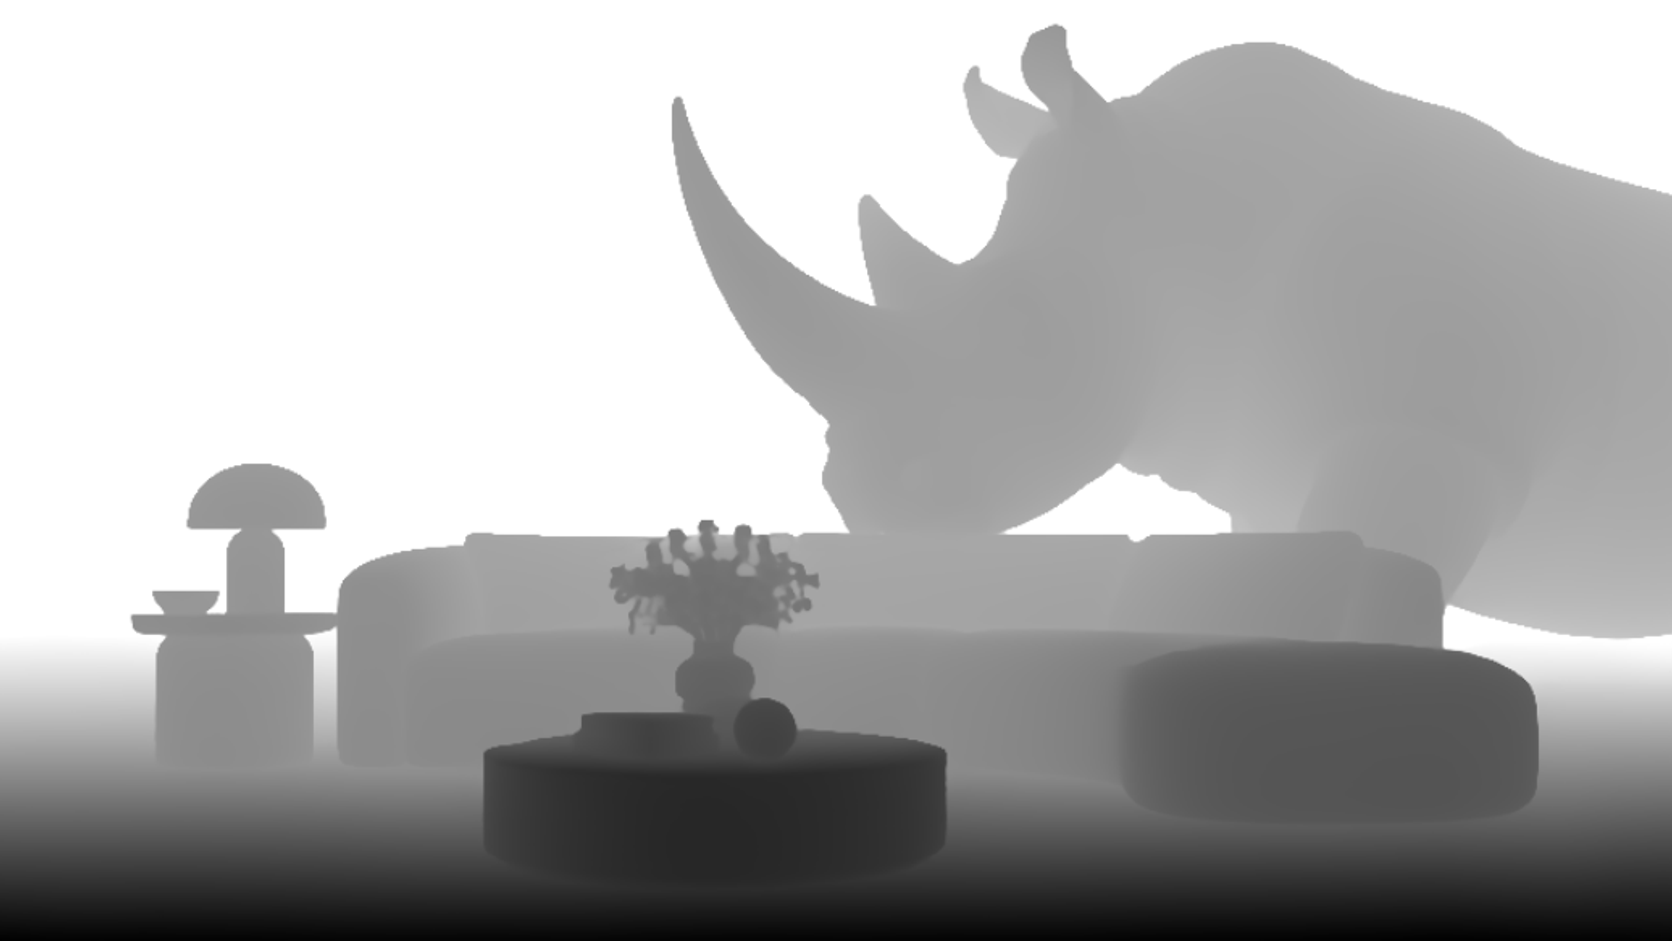
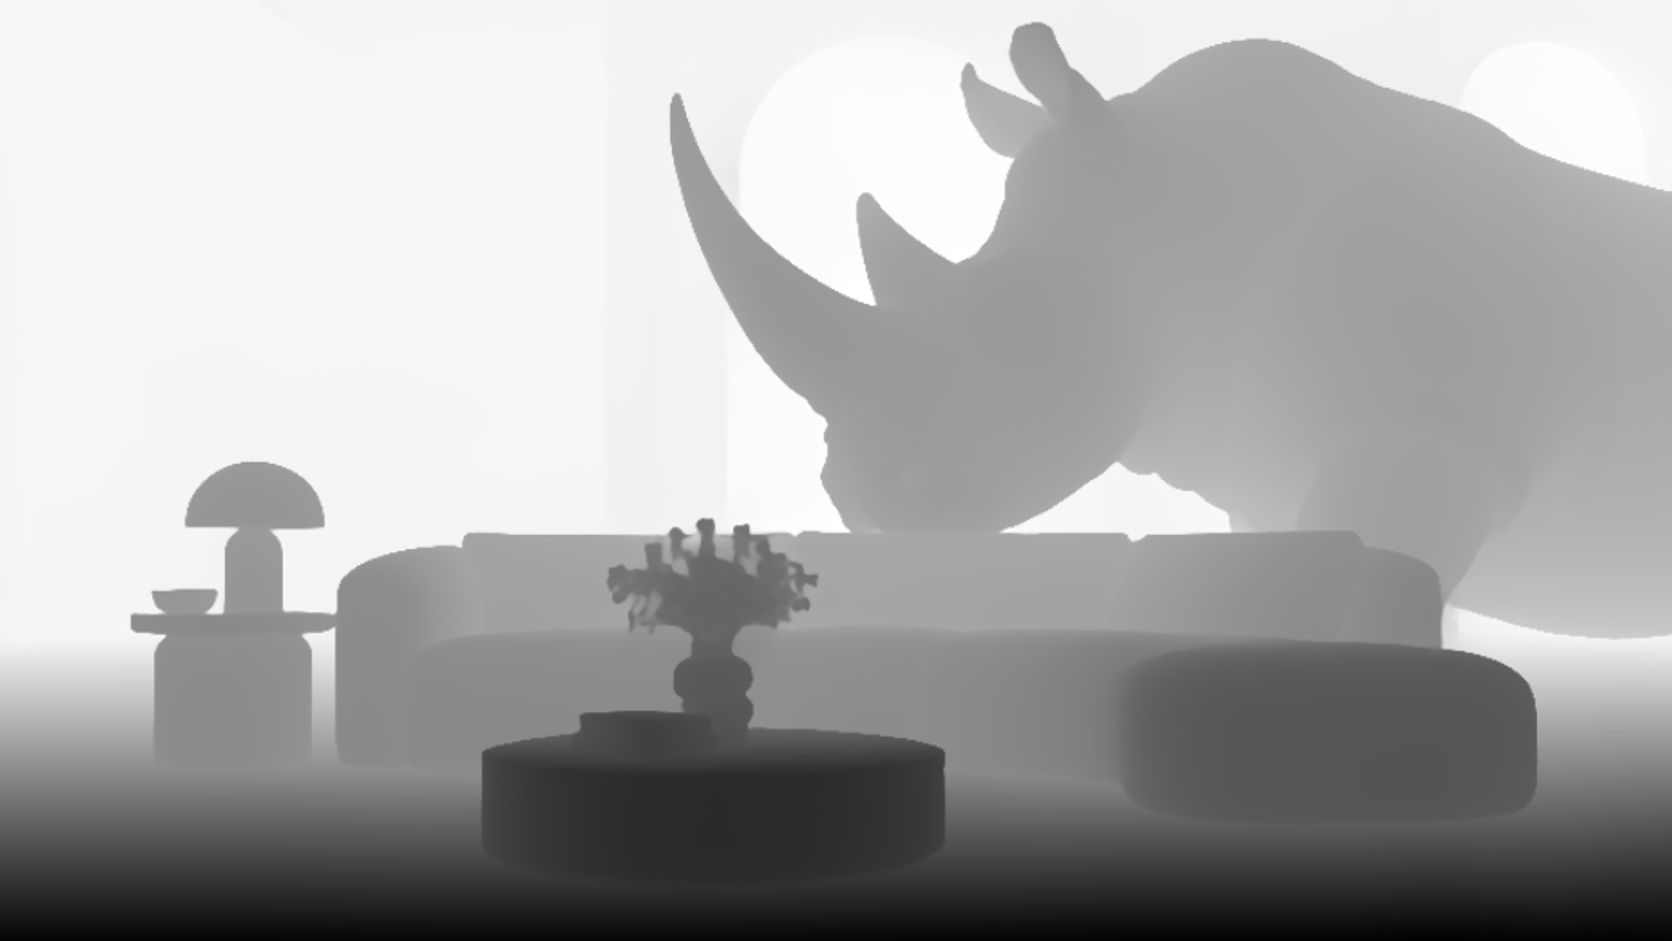
Hero: interior version of the first world, dark text and controls on it; Rouge Script; ribbon figures back
- New opening image (grey plaster interior with arches) and its depth map
- While the first world shows, hero lines, header, logo and controls switch to ink
- Script type now Rouge Script from Google Fonts (Parisienne removed)
- Restore the four figures on the process ribbon (light stays fixed)

diff --git a/src/three/scenes/AtelierObjects.tsx b/src/three/scenes/AtelierObjects.tsx
@@ -21,7 +21,7 @@ function StudioEnvironment() {
   return <primitive object={environment.texture} attach="environment"/>
 }
 
-// The process sculpture: a ribbon spiral.
+// The process sculpture: a ribbon spiral with four figures.
 // The ribbon carries aT (0 at its top, .86 at its foot) so one shader can reveal it on scroll and
 // sweep a new finish down it with a glowing seam.
 export type Finish = 'lacquer' | 'metal' | 'clay' | 'brass' | 'velvet'
@@ -33,6 +33,7 @@ const finishes: Record<Finish, FinishLook> = {
   brass: { color: '#c99a4a', metalness: 1, roughness: .3, clearcoat: .4, sheen: 0, sheenColor: '#000000', glow: '#ffd27a' },
   velvet: { color: '#2337a8', metalness: 0, roughness: .9, clearcoat: 0, sheen: 1, sheenColor: '#7f9bff', glow: '#8aa2ff' },
 }
+const FIGURES = [.10, .32, .57, .81]
 
 function ribbonGeometry() {
   const positions: number[] = [], indices: number[] = [], along: number[] = []
@@ -110,8 +111,8 @@ function applyFinish(material: MeshPhysicalMaterial, look: FinishLook) {
   material.clearcoat = look.clearcoat; material.sheen = look.sheen; material.sheenColor.set(look.sheenColor)
 }
 
-function Ribbon({ progress, reduced, finish, entered }: { progress: MutableRefObject<number>; active: number; reduced: boolean; finish: Finish; entered: boolean }) {
-  const group = useRef<Group>(null), entrance = useRef(reduced ? 1 : 0)
+function Ribbon({ progress, active, reduced, finish, entered }: { progress: MutableRefObject<number>; active: number; reduced: boolean; finish: Finish; entered: boolean }) {
+  const group = useRef<Group>(null), entrance = useRef(reduced ? 1 : 0), people = useRef<(Group | null)[]>([])
   const shared = useMemo(() => ({ uReveal: { value: reduced ? 1 : 0 }, uSweep: { value: 0 }, uGlow: { value: new Color(finishes[finish].glow) } }), []) // eslint-disable-line react-hooks/exhaustive-deps
   const [outgoing, incoming] = useMemo(() => [sweepMaterial(0, shared), sweepMaterial(1, shared)], [shared])
   const geometry = useMemo(() => ribbonGeometry(), [])
@@ -139,6 +140,8 @@ function Ribbon({ progress, reduced, finish, entered }: { progress: MutableRefOb
       shared.uSweep.value = Math.min(1, shared.uSweep.value + dt / 1.3)
       if (shared.uSweep.value >= 1) { applyFinish(outgoing, finishes[shown.current]); shared.uSweep.value = 0 }
     }
+    // Each figure steps out once the fragment beneath it has landed.
+    people.current.forEach((figure, i) => { if (figure) figure.scale.setScalar(.12 * MathUtils.smoothstep((shared.uReveal.value * 1.33 - FIGURES[i] * 1.05) / .28, .85, 1)) })
     if (!group.current) return
     group.current.position.y = (1 - e) * -1.4
     group.current.scale.setScalar(.82 + .18 * e)
@@ -153,6 +156,14 @@ function Ribbon({ progress, reduced, finish, entered }: { progress: MutableRefOb
     <group ref={group} rotation={[0, -.25, 0]}>
       <mesh geometry={geometry} material={outgoing} />
       <mesh geometry={geometry} material={incoming} />
+      {FIGURES.map((t,i) => {
+        const a=t*Math.PI*6.6
+        return <group key={t} ref={el => { people.current[i] = el }} position={[Math.cos(a)*1.2, 3.1-t*6.2+.36, Math.sin(a)*1.2]} scale={.12}>
+          <mesh position={[0,.8,0]}><sphereGeometry args={[.19,12,8]} /><meshStandardMaterial color={active===i?'#f5e7cf':'#152232'} /></mesh>
+          <mesh position={[0,.35,0]}><capsuleGeometry args={[.15,.45,4,8]} /><meshStandardMaterial color={active===i?'#f5e7cf':'#152232'} /></mesh>
+          {[-1,1].map(side=><mesh key={side} position={[side*.12,-.15,0]} rotation={[0,0,side*.1]}><capsuleGeometry args={[.06,.42,4,6]} /><meshStandardMaterial color="#152232" /></mesh>)}
+        </group>
+      })}
     </group>
   </>
 }

diff --git a/src/styles/cinematicHero.css b/src/styles/cinematicHero.css
@@ -132,6 +132,26 @@
 .atelier-shade { opacity: calc(1 - var(--hero-outro, 0)); }
 .atelier-titles, .atelier-bottom, .atelier-meters { opacity: calc(1 - var(--hero-outro, 0)); }
 
-/* Script lines are set in Parisienne: upright (the face is already cursive), no synthetic slant or bold, natural spacing so the letters join. */
-.atelier-line, .atelier-contact > a { font-family: 'Parisienne', 'Bodoni Moda', cursive; font-style: normal; font-weight: 400; font-synthesis: none; letter-spacing: 0; }
+/* Script lines are set in Rouge Script: upright (the face is already cursive), no synthetic slant or bold, natural spacing so the letters join. */
+.atelier-line, .atelier-contact > a { font-family: 'Rouge Script', 'Bodoni Moda', cursive; font-style: normal; font-weight: 400; font-synthesis: none; letter-spacing: 0; }
 .atelier-line { font-size: clamp(52px, 6vw, 112px); }
+
+/* The first world is a pale interior, so while it shows the hero's text, header and controls turn to ink. */
+.atelier-header, .atelier-line, .atelier-bottom, .atelier-logo img, .atelier-desktop-nav, .atelier-nav-pill, .atelier-factory, .atelier-factory i, .atelier-meter-fill, .atelier-meters button::before { transition: color .6s ease, background-color .6s ease, border-color .6s ease, filter .6s ease, transform .7s cubic-bezier(.65,0,.15,1); }
+.atelier-stage.is-light .atelier-header,
+.atelier-stage.is-light .atelier-line,
+.atelier-stage.is-light .atelier-bottom { color: var(--atelier-ink); }
+.atelier-stage.is-light .atelier-line { text-shadow: 0 1px 18px #ffffff66; }
+/* The logo file is white: tint it to the ink navy. */
+.atelier-stage.is-light .atelier-logo img { filter: brightness(0) invert(13%) sepia(38%) saturate(1400%) hue-rotate(178deg) brightness(.92); }
+.atelier-stage.is-light .atelier-desktop-nav { background: #ffffff59; border-color: #17284026; box-shadow: inset 0 1px 0 #ffffff80, 0 12px 40px #1728401a; }
+.atelier-stage.is-light .atelier-nav-pill { background: var(--atelier-ink); }
+.atelier-stage.is-light .atelier-desktop-nav button[aria-current] { color: var(--atelier-ivory); }
+.atelier-stage.is-light .atelier-desktop-nav button[aria-current] small { color: #ff8a7e; }
+.atelier-stage.is-light .atelier-factory { background: #ffffff59; border-color: #17284033; }
+.atelier-stage.is-light .atelier-factory i { background: var(--atelier-ink); color: var(--atelier-ivory); }
+.atelier-stage.is-light .atelier-factory:hover { background: var(--atelier-ink); border-color: var(--atelier-ink); color: var(--atelier-ivory); }
+.atelier-stage.is-light .atelier-factory:hover i { background: #bf291b; color: #fff; }
+.atelier-stage.is-light .atelier-meters button::before { background: #1728402e; }
+.atelier-stage.is-light .atelier-meter-fill { background: var(--atelier-ink); }
+.atelier-stage.is-light .atelier-menu-toggle { border-color: #17284033; background: #ffffff59; color: var(--atelier-ink); }

diff --git a/src/config/cinematicHero.ts b/src/config/cinematicHero.ts
@@ -16,7 +16,7 @@ export interface CinematicWorld {
 }
 
 export const cinematicWorlds: CinematicWorld[] = [
-  { id: 'beyond-ordinary', name: 'Beyond the ordinary', navigation: 'Home', image: '/images/redesign/rhino.jpg', depth: '/images/redesign/rhino-depth.png', aspect: 1672 / 941, alt: 'A curved powder-blue sofa, blue-grey travertine tables and a stone lamp on a salt flat, with a monumental ivory rhinoceros behind, under a deep blue sky.', lines: ['for interiors that', 'don’t do ordinary.'], exit: [.607, .332], entry: [.5, .5], portraitFocus: .45 },
+  { id: 'beyond-ordinary', name: 'Beyond the ordinary', navigation: 'Home', image: '/images/redesign/rhino.jpg', depth: '/images/redesign/rhino-depth.png', aspect: 1672 / 941, alt: 'A curved powder-blue sofa, blue-grey travertine tables and a stone lamp in a tall grey plaster interior with arched openings, with a monumental ivory rhinoceros sculpture behind.', lines: ['for interiors that', 'don’t do ordinary.'], exit: [.607, .332], entry: [.5, .5], portraitFocus: .45 },
   { id: 'perspective', name: 'A different perspective', navigation: 'Perspective', image: '/images/redesign/eye.jpg', depth: '/images/redesign/eye-depth.png', aspect: 1672 / 1077, alt: 'A monumental eye carved into an ivory interior, with sculptural furniture and vivid red figures.', lines: ['bold when needed', 'where space becomes narrative.'], exit: [.508, .398], entry: [.508, .398], portraitFocus: .50 },
   { id: 'imagination', name: 'Imagination takes form', navigation: 'Imagination', image: '/images/redesign/bedroom.jpg', depth: '/images/redesign/bedroom-depth.png', aspect: 1672 / 1077, alt: 'Cobalt blue furniture on white pebbles, with a blue-clad woman holding a red heart.', lines: ['where imagination', 'finds form'], exit: [.923, .44], entry: [.354, .49], portraitFocus: .43 },
   { id: 'extraordinary-living', name: 'Extraordinary living', navigation: 'Living', image: '/images/redesign/pool.jpg', depth: '/images/redesign/pool-depth.png', aspect: 1672 / 1077, alt: 'Blue sculptural spheres and an ivory bathtub beside a reflecting pool and white arches.', lines: ['Ordinary spaces.', 'Extraordinary living.'], exit: [.50, .5], entry: [.87, .58], portraitFocus: .58 },

diff --git a/src/styles/atelierSections.css b/src/styles/atelierSections.css
@@ -231,8 +231,8 @@
 .story-navigation > [data-on-navy] button { border-color:#f5f0e766; }
 .story-navigation > [data-on-navy] button:hover { background:#f5f0e7; color:#142942; }
 
-/* Script accents are set in Parisienne: upright (the face is already cursive), no synthetic slant or bold, natural spacing so the letters join.
+/* Script accents are set in Rouge Script: upright (the face is already cursive), no synthetic slant or bold, natural spacing so the letters join.
    It runs smaller than Bodoni at the same size, so emphasised words inside headings are enlarged to match. */
 .process-note, .drawing-status, .architecture-foot > span, .outro-passage-hint span,
-.atelier-editorial h2 em, .atelier-editorial h3 em, .focus-statement em, .outro-title em { font-family:'Parisienne','Bodoni Moda',cursive; font-style:normal; font-weight:400; font-synthesis:none; letter-spacing:0; }
+.atelier-editorial h2 em, .atelier-editorial h3 em, .focus-statement em, .outro-title em { font-family:'Rouge Script','Bodoni Moda',cursive; font-style:normal; font-weight:400; font-synthesis:none; letter-spacing:0; }
 .atelier-editorial h2 em, .atelier-editorial h3 em, .focus-statement em, .outro-title em { font-size:1.12em; }

diff --git a/src/components/PageLoader.tsx b/src/components/PageLoader.tsx
@@ -138,7 +138,7 @@ export function PageLoader({ onComplete }: { onComplete: () => void }) {
   useEffect(() => {
     let alive = true, completed = 0, displayed = 1, stalledSince = 0
     const tasks = [...images, '/theos-logo.avif'].map(loadImage)
-    tasks.push(document.fonts.load('400 16px "Bodoni Moda"').then(() => {}), document.fonts.load('italic 400 16px "Bodoni Moda"').then(() => {}), document.fonts.load('400 16px Manrope').then(() => {}), document.fonts.load('400 16px Parisienne').then(() => {}))
+    tasks.push(document.fonts.load('400 16px "Bodoni Moda"').then(() => {}), document.fonts.load('italic 400 16px "Bodoni Moda"').then(() => {}), document.fonts.load('400 16px Manrope').then(() => {}), document.fonts.load('400 16px "Rouge Script"').then(() => {}))
     tasks.push(import('@/three/scenes/CinematicHero').then(() => {}), import('@/three/scenes/AtelierObjects').then(() => {}), import('@/three/scenes/LiquidDrops').then(() => {}))
     tasks.forEach(task => task.catch(() => {}).finally(() => { completed++ }))
     const total = tasks.length + 4

diff --git a/src/pages/Home.tsx b/src/pages/Home.tsx
@@ -52,7 +52,7 @@ export function Home() {
   return <main className="atelier-home">
     <a href="#atelier-contact" className="atelier-skip">Skip the visual journey</a>
     <section ref={root} className="atelier-journey" aria-label="Theos — beyond the ordinary" data-world={world.id}>
-      <div className={`atelier-stage${ready && !failed ? ' is-ready' : ''}${active === 1 ? ' is-ivory' : ''}`}>
+      <div className={`atelier-stage${ready && !failed ? ' is-ready' : ''}${active === 1 ? ' is-ivory' : ''}${active === 0 ? ' is-light' : ''}`}>
         <div className="atelier-poster" aria-hidden="true">
           {cinematicWorlds.map((scene, i) => <img key={scene.id} src={scene.image} alt="" fetchPriority={i === 0 ? 'high' : 'auto'} className={active === i ? 'is-current' : ''} style={{ objectPosition: `${scene.portraitFocus * 100}% center` }} />)}
         </div>

diff --git a/index.html b/index.html
@@ -7,6 +7,9 @@
     <meta name="description" content="Theos interiors and furniture. A world of considered spaces, bold imagination, and extraordinary living." />
     <link rel="preload" as="image" href="/images/redesign/rhino.jpg" fetchpriority="high" />
     <title>Theos — Interior Design Studio</title>
+    <link rel="preconnect" href="https://fonts.googleapis.com">
+    <link rel="preconnect" href="https://fonts.gstatic.com" crossorigin>
+    <link href="https://fonts.googleapis.com/css2?family=Raleway:ital,wght@0,100..900;1,100..900&family=Rouge+Script&display=swap" rel="stylesheet">
   </head>
   <body>
     <div id="root"></div>

diff --git a/src/index.css b/src/index.css
@@ -2,7 +2,6 @@
 
 @font-face { font-family: 'Bodoni Moda'; src: url('/fonts/bodoni-moda.ttf') format('truetype'); font-style: normal; font-weight: 400 900; font-display: swap; }
 @font-face { font-family: 'Bodoni Moda'; src: url('/fonts/bodoni-moda-italic.ttf') format('truetype'); font-style: italic; font-weight: 400 900; font-display: swap; }
-@font-face { font-family: 'Parisienne'; src: url('/fonts/Parisienne-Regular.ttf') format('truetype'); font-style: normal; font-weight: 400; font-display: swap; }
 
 @theme {
   --font-display: "Fraunces", ui-serif, Georgia, serif;

diff --git a/CLAUDE.md b/CLAUDE.md
@@ -8,11 +8,11 @@ React + TypeScript + Vite; Three.js / React Three Fiber; GSAP + ScrollTrigger; o
 
 ## Behavior
 
-- Desktop hero uses 820vh travel with depth-map parallax. The first world (cool-palette sofa and tables, ivory rhino) hands over through a pane of fluted (reeded) glass that sweeps right to left, each rib refracting the scene, the carved-eye room showing through it and remaining once it has passed (`uDepthPass`). The previous hero is kept in `docs/snapshots/hero-before/`. The later worlds hand over by flying through a shared detail on an exponential zoom: red iris → red heart, blue archway → pool arches (`exit` / `entry` in `cinematicHero.ts`). The next world grows inside the detail as a miniature and dissolves in along an organic edge, with radial motion streaks. The journey is paced (`MAX_SPEED` in `useCinematicJourney`), so hard scrolling never speeds a passage up. The bedroom figure uses coherent projective movement to avoid tearing.
+- Desktop hero uses 820vh travel with depth-map parallax. The first world (cool-palette sofa and tables in a grey plaster interior, ivory rhino) hands over through a pane of fluted (reeded) glass that sweeps right to left, each rib refracting the scene, the carved-eye room showing through it and remaining once it has passed (`uDepthPass`). The previous hero is kept in `docs/snapshots/hero-before/`. The later worlds hand over by flying through a shared detail on an exponential zoom: red iris → red heart, blue archway → pool arches (`exit` / `entry` in `cinematicHero.ts`). The next world grows inside the detail as a miniature and dissolves in along an organic edge, with radial motion streaks. The journey is paced (`MAX_SPEED` in `useCinematicJourney`), so hard scrolling never speeds a passage up. The bedroom figure uses coherent projective movement to avoid tearing.
 - Draggable orbital gallery (15 frames on an invisible sphere, depth-dimmed) with native dialog previews; static tiles remain the WebGL fallback.
 - Procedural 3D process ribbon with lacquer/metal/clay choices.
 - Sticky blueprint sequence: scroll raises and draws the blueprint, then pushes into the room; a cursor lens reveals the built interior and a click (or the Blueprint / As built buttons) builds it all.
-- Script type (hero lines, heading accents, footer email) is set in Parisienne (`public/fonts/Parisienne-Regular.ttf`).
+- Script type (hero lines, heading accents, footer email) is set in Rouge Script (Google Fonts, linked in `index.html` with Raleway).
 - Animated SVG focus icons and expandable O-shaped visual stories.
 - Cream → navy hand-over (`OutroRise` in `AtelierSections.tsx`): the navy rises over the stories section as the footer scrolls in, its top a crisp curved wave that drifts as it rises; at rest the footer meets the cream along that curve.
 - Closing scene: seven liquid drops ray-marched as metaballs (`LiquidDrops.tsx`): scroll gathers them into the theos O and its dot, drag throws a drop (spring physics), nearby drops shy from the cursor, click morphs the material (chrome, red lacquer, glass, pearl) under a procedural studio light. Half resolution, created only near the footer. The previous red O is kept in `docs/snapshots/outro-before/`. Email CTA.

diff --git a/public/images/redesign/README.md b/public/images/redesign/README.md
@@ -5,4 +5,4 @@ The photographs in this directory were extracted from the user-supplied Theos we
 Original reference documents remain in the local cleanup recovery archive. Detailed mapping is recorded in the redesign documents under `docs/`. `eye-portal.jpg` is the eye world with its carved wall opened into an arch onto the bedroom world, generated with ChatGPT from `eye.jpg` and `bedroom.jpg` as references (the source export is `imagegen.png`); `eye-portal-depth.png` is its Magnific depth map. `architecture-plan.jpg` is the blueprint state of the architecture section, generated with ChatGPT from `Interiorimg.png` so the two are pixel-aligned (source export `architecture-plan.png`).
 
 
-`rhino.png` is the opening world (cool-palette furniture, no figures), generated with ChatGPT from the previous rhino image as reference; `rhino.jpg` is its compressed copy used by the site, and `rhino-depth.png` was made locally with Depth Anything V2 (base). The previous opening image and its depth map are kept in `docs/snapshots/hero-before/`.
+`rhino.png` is the opening world (cool-palette furniture in a grey plaster interior with arches, no figures), generated with ChatGPT from the previous rhino image as reference; `rhino.jpg` is its compressed copy used by the site, and `rhino-depth.png` was made locally with Depth Anything V2 (base). The previous opening image and its depth map are kept in `docs/snapshots/hero-before/`.
